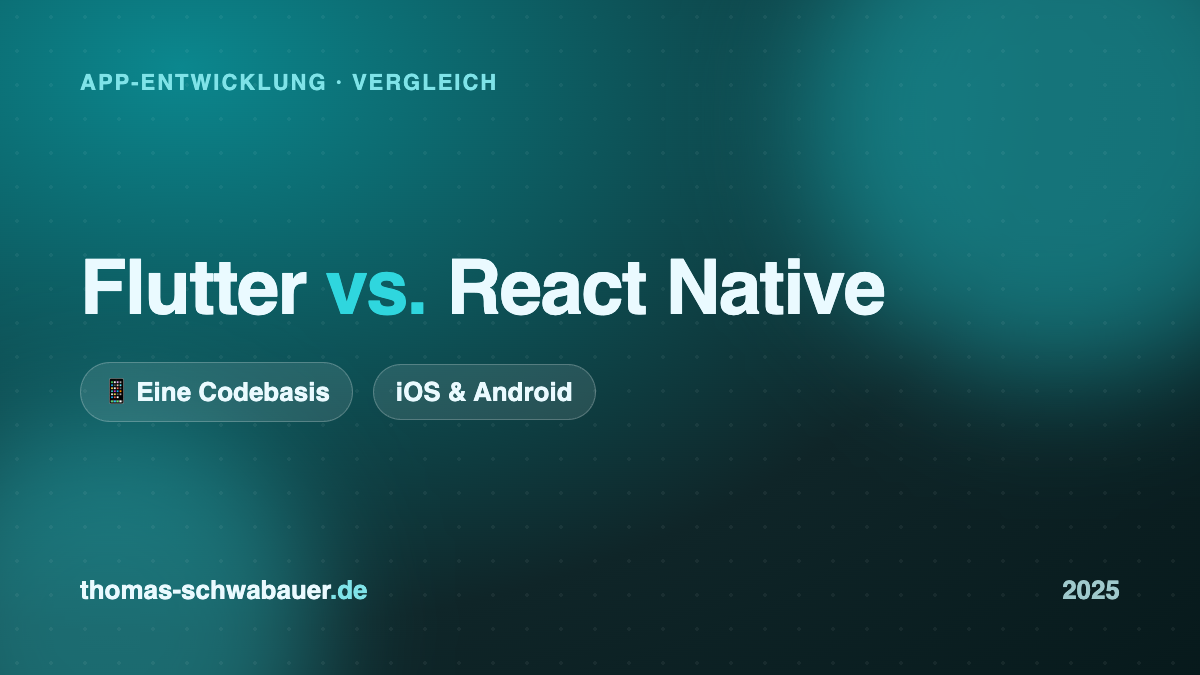
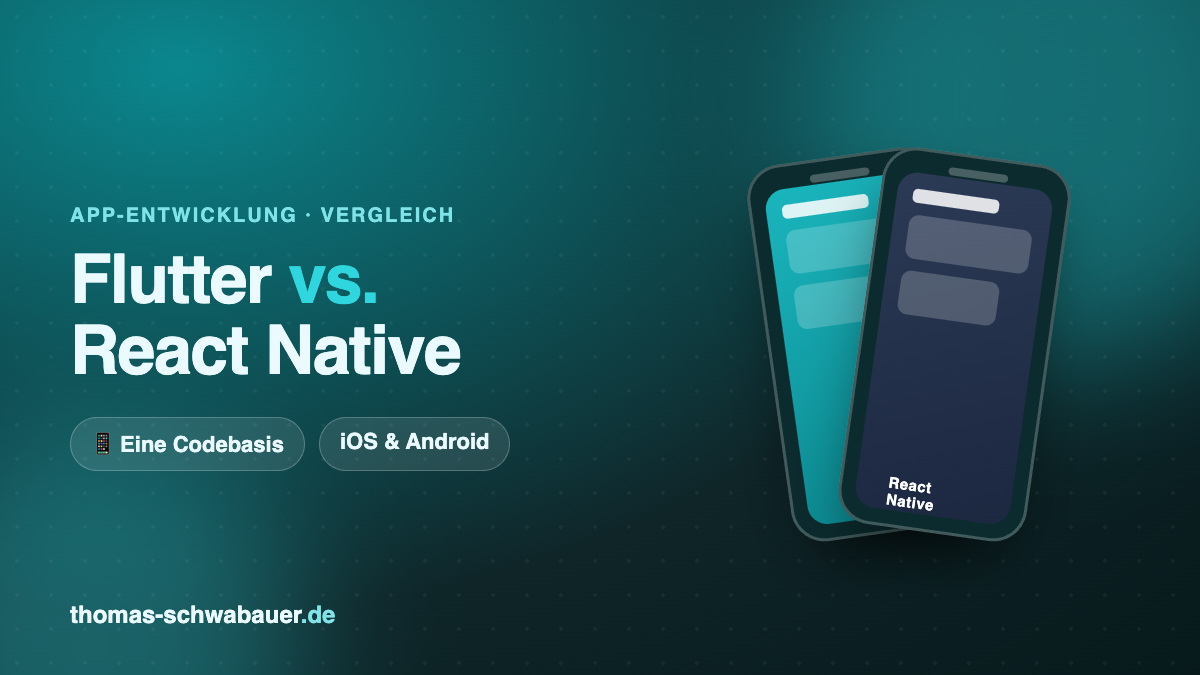
feat(blog): Titelbild aufgewertet + zwei erklärende Grafiken
- Cover neu: zwei Geräte-Mockups (Flutter/React Native) statt reinem
  Text-Cover, weiterhin on-brand per Headless-Chrome generiert.
- Zwei Inline-Grafiken im Flutter-Post: „Eine Codebasis → iOS & Android"
  (nach der Einleitung) und Rendering-Vergleich Flutter vs. React Native
  (im Performance-Abschnitt). HTML-Vorlagen unter scripts/, PNGs in
  public/blog/flutter-vs-react-native-2025/.

diff --git a/scripts/blog-cover-flutter.html b/scripts/blog-cover-flutter.html
@@ -1,11 +1,10 @@
 <!--
-  Blog-Cover „Flutter vs. React Native 2025" – 1200×675 (16:9).
-  Rendern mit headless Chrome:
+  Blog-Titelbild „Flutter vs. React Native 2025" – 1200×675 (16:9).
+  Rendern:
   "/Applications/Google Chrome.app/Contents/MacOS/Google Chrome" \
     --headless=new --screenshot=public/blog/flutter-vs-react-native-2025/cover.png \
-    --window-size=1200,675 --hide-scrollbars \
-    file://ABSOLUTER_PFAD/scripts/blog-cover-flutter.html
-  Keine externen Ressourcen (Systemfonts), damit der Screenshot deterministisch ist.
+    --window-size=1200,675 --hide-scrollbars file://ABSOLUT/scripts/blog-cover-flutter.html
+  Keine externen Ressourcen (Systemfonts), deterministischer Screenshot.
 -->
 <!doctype html>
 <html>
@@ -16,48 +15,69 @@
       html, body { width: 1200px; height: 675px; }
       body {
         font-family: -apple-system, "Segoe UI", Roboto, Helvetica, Arial, sans-serif;
-        background: radial-gradient(120% 140% at 15% 10%, #0b878e 0%, #0f2528 60%, #06181a 100%);
-        color: #eafaff;
-        position: relative;
-        overflow: hidden;
+        background: radial-gradient(120% 140% at 15% 10%, #0b878e 0%, #0f2528 58%, #06181a 100%);
+        color: #eafaff; position: relative; overflow: hidden;
       }
-      .blob { position: absolute; border-radius: 50%; filter: blur(60px); opacity: 0.55; }
-      .b1 { width: 520px; height: 520px; background: #1ab5bd; top: -140px; right: -120px; }
-      .b2 { width: 420px; height: 420px; background: #2fd6de; bottom: -160px; left: -100px; opacity: 0.4; }
-      .dots {
-        position: absolute; inset: 0;
-        background-image: radial-gradient(rgba(255,255,255,0.10) 2px, transparent 2px);
-        background-size: 34px 34px; opacity: 0.5;
-      }
-      .content { position: relative; padding: 70px 80px; height: 100%; display: flex; flex-direction: column; justify-content: space-between; }
-      .eyebrow { font-size: 22px; font-weight: 700; letter-spacing: 2px; text-transform: uppercase; color: #7fe3e8; }
-      h1 { font-size: 76px; font-weight: 800; line-height: 1.05; letter-spacing: -1.5px; max-width: 900px; }
+      .blob { position: absolute; border-radius: 50%; filter: blur(70px); }
+      .b1 { width: 520px; height: 520px; background: #1ab5bd; top: -160px; right: -120px; opacity: .5; }
+      .b2 { width: 420px; height: 420px; background: #2fd6de; bottom: -180px; left: -120px; opacity: .35; }
+      .dots { position: absolute; inset: 0; background-image: radial-gradient(rgba(255,255,255,.10) 2px, transparent 2px); background-size: 34px 34px; opacity: .45; }
+      .wrap { position: relative; height: 100%; display: grid; grid-template-columns: 1.15fr 0.85fr; align-items: center; padding: 0 70px; gap: 20px; }
+      .eyebrow { font-size: 20px; font-weight: 700; letter-spacing: 2px; text-transform: uppercase; color: #7fe3e8; margin-bottom: 18px; }
+      h1 { font-size: 68px; font-weight: 800; line-height: 1.04; letter-spacing: -1.5px; }
       h1 .vs { color: #2fd6de; }
-      .row { display: flex; align-items: center; gap: 20px; }
-      .pill { display: inline-flex; align-items: center; gap: 10px; background: rgba(255,255,255,0.10); border: 1px solid rgba(255,255,255,0.22); padding: 12px 22px; border-radius: 999px; font-size: 26px; font-weight: 700; }
-      .footer { display: flex; align-items: center; justify-content: space-between; }
-      .brand { font-size: 26px; font-weight: 700; }
+      .pills { display: flex; gap: 14px; margin-top: 30px; }
+      .pill { background: rgba(255,255,255,.10); border: 1px solid rgba(255,255,255,.22); padding: 11px 20px; border-radius: 999px; font-size: 22px; font-weight: 700; }
+      .brand { position: absolute; left: 70px; bottom: 46px; font-size: 24px; font-weight: 700; }
       .brand span { color: #7fe3e8; }
-      .year { font-size: 26px; font-weight: 700; color: #9fc9cc; }
+      /* Geräte-Mockups */
+      .devices { position: relative; height: 100%; display: flex; align-items: center; justify-content: center; }
+      .phone { width: 190px; height: 380px; border-radius: 34px; background: #0c2b2e; border: 3px solid rgba(255,255,255,.22); box-shadow: 0 30px 60px -18px rgba(0,0,0,.6); position: absolute; overflow: hidden; }
+      .phone.left { transform: rotate(-8deg) translateX(-46px); z-index: 1; }
+      .phone.right { transform: rotate(8deg) translateX(46px); z-index: 2; }
+      .notch { position: absolute; top: 12px; left: 50%; transform: translateX(-50%); width: 60px; height: 8px; border-radius: 6px; background: rgba(255,255,255,.25); }
+      .screen { position: absolute; inset: 22px 14px 14px; border-radius: 20px; padding: 16px; }
+      .screen.f { background: linear-gradient(160deg, #1ab5bd, #0b878e); }
+      .screen.r { background: linear-gradient(160deg, #2b3a55, #1c2740); }
+      .bar { height: 14px; border-radius: 5px; background: rgba(255,255,255,.85); width: 70%; margin-bottom: 12px; }
+      .card { height: 44px; border-radius: 10px; background: rgba(255,255,255,.20); margin-bottom: 12px; }
+      .tag { position: absolute; bottom: 16px; left: 50%; transform: translateX(-50%); font-size: 15px; font-weight: 800; letter-spacing: .5px; color: #fff; }
     </style>
   </head>
   <body>
     <div class="blob b1"></div>
     <div class="blob b2"></div>
     <div class="dots"></div>
-    <div class="content">
-      <div class="eyebrow">App-Entwicklung · Vergleich</div>
+    <div class="wrap">
       <div>
-        <h1>Flutter <span class="vs">vs.</span> React Native</h1>
-        <div class="row" style="margin-top: 34px">
+        <div class="eyebrow">App-Entwicklung · Vergleich</div>
+        <h1>Flutter <span class="vs">vs.</span><br />React Native</h1>
+        <div class="pills">
           <div class="pill">📱 Eine Codebasis</div>
           <div class="pill">iOS &amp; Android</div>
         </div>
       </div>
-      <div class="footer">
-        <div class="brand">thomas-schwabauer<span>.de</span></div>
-        <div class="year">2025</div>
+      <div class="devices">
+        <div class="phone left">
+          <div class="notch"></div>
+          <div class="screen f">
+            <div class="bar"></div>
+            <div class="card"></div>
+            <div class="card" style="width:80%"></div>
+          </div>
+          <div class="tag">Flutter</div>
+        </div>
+        <div class="phone right">
+          <div class="notch"></div>
+          <div class="screen r">
+            <div class="bar"></div>
+            <div class="card"></div>
+            <div class="card" style="width:80%"></div>
+          </div>
+          <div class="tag">React Native</div>
+        </div>
       </div>
     </div>
+    <div class="brand">thomas-schwabauer<span>.de</span></div>
   </body>
 </html>

diff --git a/scripts/blog-diagram-rendering.html b/scripts/blog-diagram-rendering.html
@@ -1,0 +1,50 @@
+<!-- Inline-Grafik: Rendering-Vergleich Flutter vs. React Native – 1200×560. -->
+<!doctype html>
+<html>
+  <head>
+    <meta charset="utf-8" />
+    <style>
+      * { margin: 0; padding: 0; box-sizing: border-box; }
+      html, body { width: 1200px; height: 560px; }
+      body {
+        font-family: -apple-system, "Segoe UI", Roboto, Helvetica, Arial, sans-serif;
+        background: radial-gradient(120% 140% at 50% 0%, #0f3a3e 0%, #0f2528 60%, #06181a 100%);
+        color: #eafaff; position: relative; overflow: hidden; padding: 40px 60px;
+      }
+      .dots { position: absolute; inset: 0; background-image: radial-gradient(rgba(255,255,255,.07) 2px, transparent 2px); background-size: 34px 34px; opacity: .5; }
+      h2 { position: relative; text-align: center; font-size: 24px; font-weight: 700; letter-spacing: .5px; color: #7fe3e8; text-transform: uppercase; margin-bottom: 34px; }
+      .cols { position: relative; display: grid; grid-template-columns: 1fr 1fr; gap: 44px; }
+      .col { background: rgba(255,255,255,.05); border: 1px solid rgba(255,255,255,.15); border-radius: 22px; padding: 28px 30px; }
+      .col.flutter { border-color: rgba(26,181,189,.5); }
+      .head { font-size: 30px; font-weight: 800; margin-bottom: 22px; }
+      .head .accent { color: #2fd6de; }
+      .step { display: flex; align-items: center; gap: 14px; margin-bottom: 12px; }
+      .chip { flex: 1; background: rgba(255,255,255,.09); border: 1px solid rgba(255,255,255,.14); border-radius: 12px; padding: 14px 16px; font-size: 19px; font-weight: 600; }
+      .chip .s { display: block; font-size: 14px; font-weight: 400; color: #9fc9cc; margin-top: 2px; }
+      .down { text-align: center; font-size: 26px; color: #2fd6de; margin: 2px 0; }
+      .result { background: linear-gradient(160deg, rgba(26,181,189,.28), rgba(11,135,142,.18)); border-color: rgba(47,214,222,.5); }
+    </style>
+  </head>
+  <body>
+    <div class="dots"></div>
+    <h2>Wie kommt die Oberfläche auf den Bildschirm?</h2>
+    <div class="cols">
+      <div class="col flutter">
+        <div class="head">Flutter</div>
+        <div class="step"><div class="chip">Dart-Code<span class="s">zu nativem ARM-Code kompiliert</span></div></div>
+        <div class="down">↓</div>
+        <div class="step"><div class="chip">Eigene Grafik-Engine<span class="s">Impeller / Skia – zeichnet jedes Pixel</span></div></div>
+        <div class="down">↓</div>
+        <div class="step"><div class="chip result">Pixelgenaue UI<span class="s">identisch auf iOS &amp; Android</span></div></div>
+      </div>
+      <div class="col">
+        <div class="head">React <span class="accent">Native</span></div>
+        <div class="step"><div class="chip">JavaScript / TypeScript<span class="s">React-Komponenten</span></div></div>
+        <div class="down">↓</div>
+        <div class="step"><div class="chip">JSI / Fabric<span class="s">direkte Anbindung an die native Seite</span></div></div>
+        <div class="down">↓</div>
+        <div class="step"><div class="chip result">Echte native Bausteine<span class="s">plattformtypisches Look &amp; Feel</span></div></div>
+      </div>
+    </div>
+  </body>
+</html>

diff --git a/scripts/blog-diagram-codebase.html b/scripts/blog-diagram-codebase.html
@@ -1,0 +1,48 @@
+<!-- Inline-Grafik: „Eine Codebasis, zwei Plattformen" – 1200×520. -->
+<!doctype html>
+<html>
+  <head>
+    <meta charset="utf-8" />
+    <style>
+      * { margin: 0; padding: 0; box-sizing: border-box; }
+      html, body { width: 1200px; height: 520px; }
+      body {
+        font-family: -apple-system, "Segoe UI", Roboto, Helvetica, Arial, sans-serif;
+        background: radial-gradient(120% 140% at 50% 0%, #0f3a3e 0%, #0f2528 60%, #06181a 100%);
+        color: #eafaff; position: relative; overflow: hidden;
+        display: flex; align-items: center; justify-content: center;
+      }
+      .dots { position: absolute; inset: 0; background-image: radial-gradient(rgba(255,255,255,.08) 2px, transparent 2px); background-size: 34px 34px; opacity: .5; }
+      .row { position: relative; display: flex; align-items: center; gap: 60px; }
+      .node { display: flex; flex-direction: column; align-items: center; gap: 14px; }
+      .codebox { width: 230px; height: 200px; border-radius: 22px; background: linear-gradient(160deg, #1ab5bd, #0b878e); box-shadow: 0 24px 50px -18px rgba(0,0,0,.6); display: flex; align-items: center; justify-content: center; font-family: "SF Mono", Menlo, Consolas, monospace; }
+      .codebox .glyph { font-size: 82px; font-weight: 800; color: #06181a; }
+      .label { font-size: 24px; font-weight: 700; }
+      .sub { font-size: 17px; color: #9fc9cc; }
+      .arrows { display: flex; flex-direction: column; gap: 60px; }
+      .arrow { font-size: 54px; color: #2fd6de; }
+      .targets { display: flex; flex-direction: column; gap: 34px; }
+      .device { display: flex; align-items: center; gap: 18px; background: rgba(255,255,255,.06); border: 1px solid rgba(255,255,255,.16); border-radius: 18px; padding: 18px 26px; width: 320px; }
+      .device .ico { width: 54px; height: 54px; border-radius: 14px; background: rgba(47,214,222,.18); display: flex; align-items: center; justify-content: center; font-size: 30px; }
+      .device .t { font-size: 24px; font-weight: 700; }
+      .device .s { font-size: 15px; color: #9fc9cc; }
+      .title { position: absolute; top: 34px; left: 0; right: 0; text-align: center; font-size: 22px; font-weight: 700; letter-spacing: .5px; color: #7fe3e8; }
+    </style>
+  </head>
+  <body>
+    <div class="dots"></div>
+    <div class="title">EINE CODEBASIS · ZWEI PLATTFORMEN</div>
+    <div class="row">
+      <div class="node">
+        <div class="codebox"><span class="glyph">{ }</span></div>
+        <div class="label">Eine Codebasis</div>
+        <div class="sub">Dart bzw. TypeScript</div>
+      </div>
+      <div class="arrows"><div class="arrow">→</div><div class="arrow">→</div></div>
+      <div class="targets">
+        <div class="device"><div class="ico">🍎</div><div><div class="t">iOS</div><div class="s">iPhone &amp; iPad</div></div></div>
+        <div class="device"><div class="ico">🤖</div><div><div class="t">Android</div><div class="s">Smartphones &amp; Tablets</div></div></div>
+      </div>
+    </div>
+  </body>
+</html>

diff --git a/src/content/blog/flutter-vs-react-native-2025.md b/src/content/blog/flutter-vs-react-native-2025.md
@@ -22,6 +22,8 @@ Dieser Artikel vergleicht sie entlang der vier Kriterien, die in echten
 Projekten den Ausschlag geben – Performance, UI-Entwicklung, Ökosystem und
 Team – und gibt am Ende eine konkrete Empfehlung.
 
+![Schema: eine Codebasis wird zu Apps für iOS und Android](/blog/flutter-vs-react-native-2025/codebase.png)
+
 ## Der schnelle Überblick
 
 | Kriterium              | Flutter                                  | React Native                              |
@@ -45,6 +47,8 @@ React Native rendert **echte native Komponenten**. Mit der neuen Architektur
 bei der Kommunikation zwischen JavaScript und nativer Seite weitgehend
 beseitigt. Für die meisten Business-Apps – Listen, Formulare, Navigation – ist
 die Performance in der Praxis kein limitierender Faktor mehr.
+
+![Vergleich: wie Flutter und React Native die Oberfläche rendern](/blog/flutter-vs-react-native-2025/rendering.png)
 
 **Kurz:** Für animations- und grafiklastige Apps hat Flutter die Nase vorn. Für
 typische datengetriebene Apps nehmen sich beide kaum noch etwas.